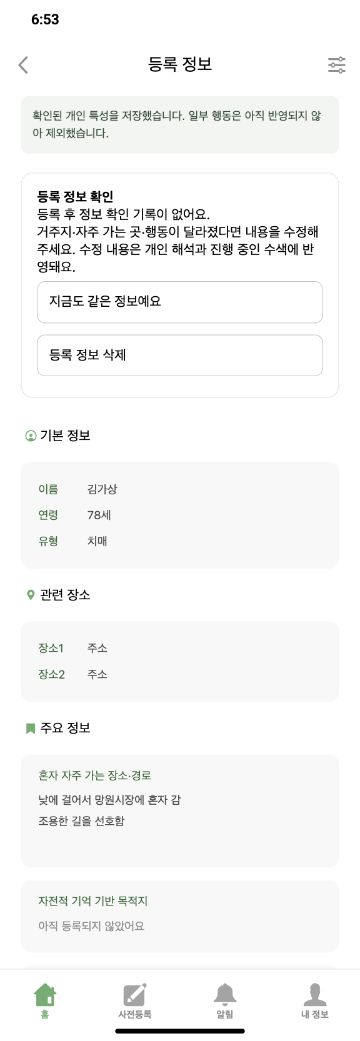
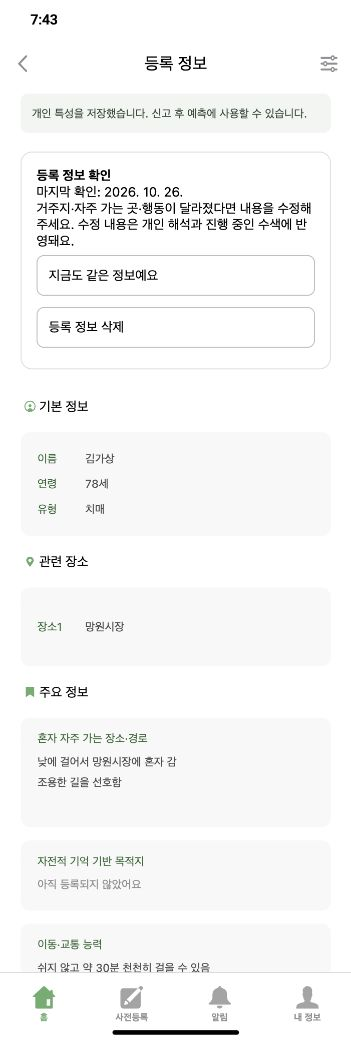
docs: show recovered live persona and preserve verification scope

diff --git a/docs/SERVICE_SCREENS_20261026.md b/docs/SERVICE_SCREENS_20261026.md
@@ -38,9 +38,9 @@
 
 ### 등록된 개인 특성 확인
 
-<img src="assets/service-screens-20261026/guardian-persona-prepared.png" width="280" alt="18시 53분 확인된 개인 특성 저장 화면, 일부 행동 제외 안내"/>
+<img src="assets/service-screens-20261026/guardian-persona-prepared.png" width="280" alt="19시 43분 복구된 개인 특성 저장 화면, 신고 후 예측 사용 가능 안내"/>
 
-18:53 운영 앱에서 촬영한 새 합성 프로필입니다. 초기 개인 해석은 준비됐고, 마음 규칙은 18:51 재시도 결과가 저장됐습니다. 검증에서 제외된 규칙은 2개이며 앱도 일부 행동이 반영되지 않았음을 안내합니다. 이 새 프로필은 위 사건 C와 별도이며, 새 신고나 새 경보는 만들지 않았습니다.
+19:43 운영 앱에서 다시 촬영한 합성 프로필입니다. 누락됐던 망원시장을 복구하고 초기 개인화와 마음 규칙 준비를 완료해, 화면에 “신고 후 예측에 사용할 수 있습니다”와 망원시장이 표시됩니다. 검증 오류로 제외된 규칙은 2개에서 0개가 됐습니다. 망원시장 습관·경로·물가 회피는 초기 개인화 값에, 30분 보행 후 10분 휴식은 마음 규칙에 연결됩니다. [실제 모델·실행 검사 및 한계](verification/registered-goal-recovery-20261026/README.md). 이 프로필은 위 사건 C와 별도이며 새 신고나 새 경보는 만들지 않았습니다.
 
 ## 시민: 평상시 산책과 상태 안내
 
@@ -71,7 +71,7 @@
 | 웹 전송 | Supabase, mock=false |
 | 서버 도로망 | #300, `cbh-cloud-worker:20261026-road-bundles`, 망원 사전 저장 캐시 |
 | 기기 확인 | iPhone 사건 목록, 상세, 확률 지도 표시 및 사용자 OS 수신 확인 |
-| 새 합성 프로필 | 초기 개인 해석 준비 성공. 첫 마음 준비 실패와 18:26 OOM 중단 이후, 18:45 복구 배포 및 18:51 마음 규칙 부분 준비 완료(검증 제외 2개). 새 신고 E2E는 미수행 |
+| 새 합성 프로필 | 19:41 목적지 누락·규칙 검토 수정 배포. 초기·마음 준비 ready, 검증 오류 제외 0개. 19:43 앱의 준비 완료와 망원시장 표시 확인. 새 신고 E2E는 미수행 |
 | 기록 보호 | 실제 가족 정보와 다른 앱 알림, 잠금 화면 배경 사진 제외. 알림 카드 배경 가림에 사용자 동의 확보 |
 
 시각은 모두 2026-10-26 한국 표준시(KST)입니다. 화면 증빙과 합성 성능 평가, 신규 도로망 검증은 각각의 범위로 읽어야 합니다.
@@ -79,3 +79,5 @@
 ### 촬영 이후 복구 기록
 
 18:45(KST) 사용량 원장 검사의 메모리 사용을 제한한 수정본을 배포했습니다. 2.27GB 원장을 통째로 올리던 경로를 한 줄씩 검사하도록 바꿨으며, 원장과 호출 상한을 유지했습니다. [원인, 검사와 배포 기록](verification/usage-ledger-memory-20261026/README.md). 위 스크린샷은 이 수정 이후 다시 계산한 지도로 교체한 것이 아닙니다.
+
+19:41(KST) 등록 목적지 보존과 원문 재검토 수정을 배포했고, 위 개인 특성 화면을 19:43 촬영본으로 갱신했습니다. 마음 규칙 1개와 초기 개인화 값의 실제 적용을 검사했으며, 모든 보호자 발화가 실행 규칙으로 변환된다는 주장은 하지 않습니다.
